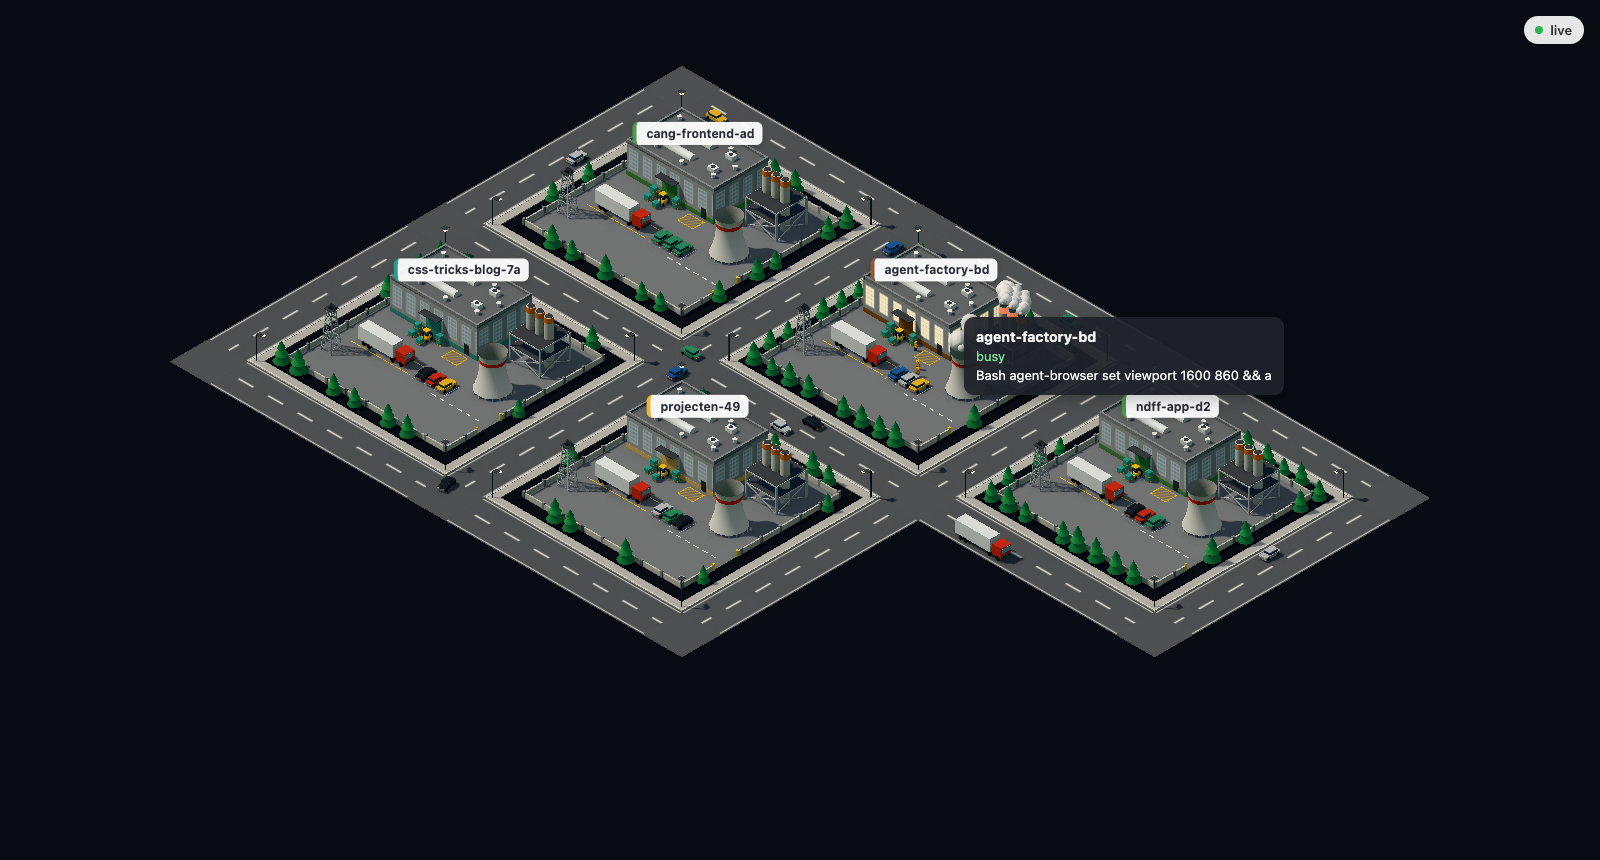
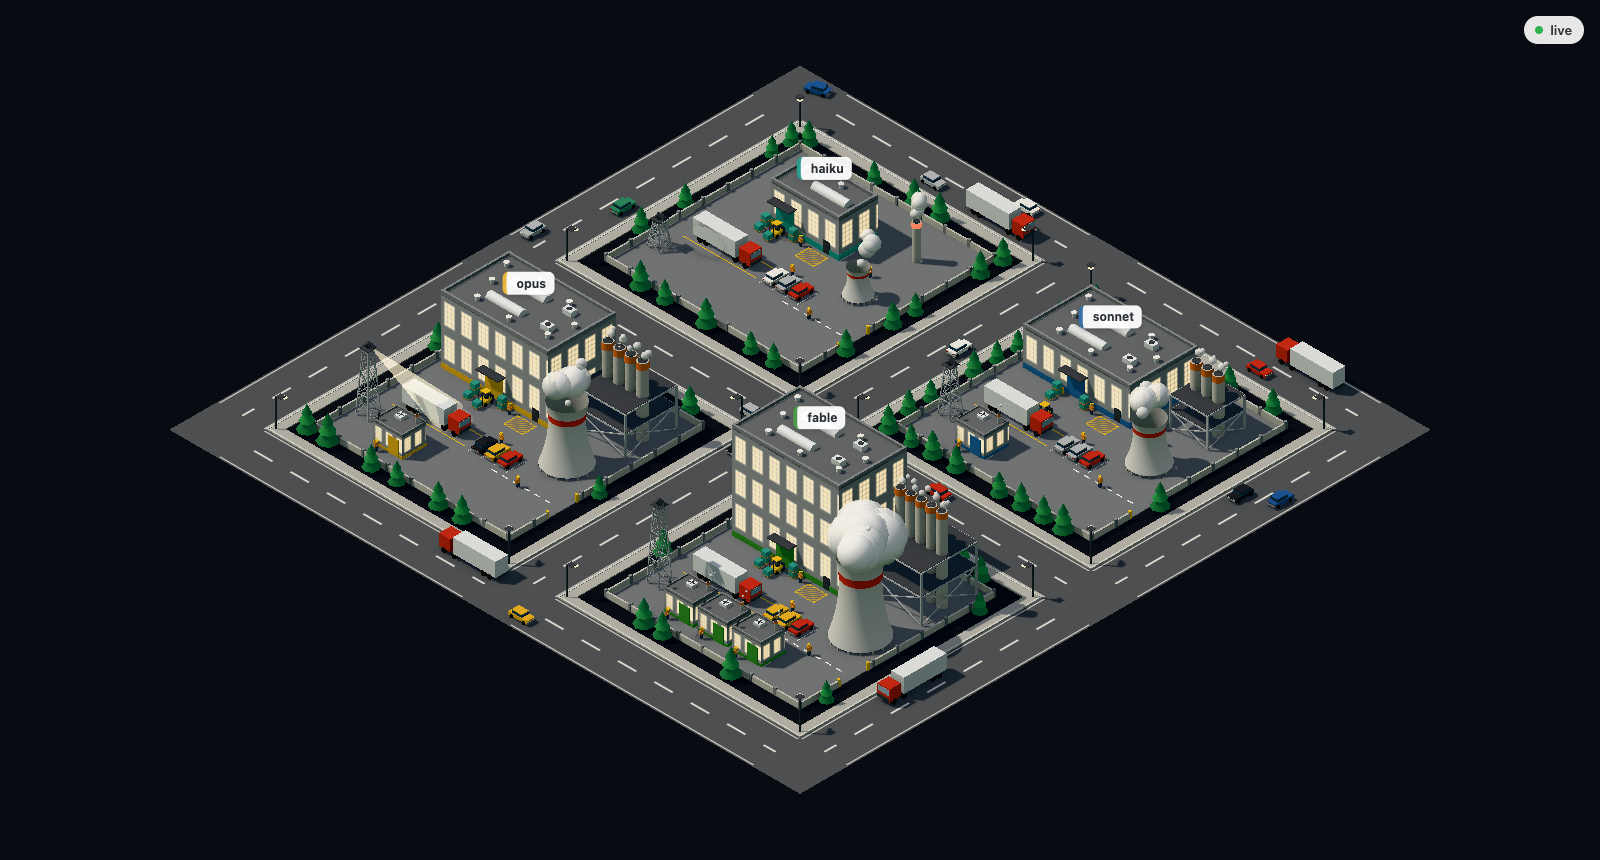
docs: show one lot per model in the readme screenshot

diff --git a/README.md b/README.md
@@ -2,7 +2,7 @@
 
 Shows every running Claude Code session on your machine as a factory in a 3D industrial park. A busy agent lights up its lot, and each tool type drives a different machine.
 
-![Five session lots in the park, two of them busy](docs/screenshot.png)
+![Four busy lots, one per model: a small Haiku plant, a medium Sonnet hall, a taller Opus hall and a three story Fable hall](docs/screenshot.png)
 
 ## Run it
 
